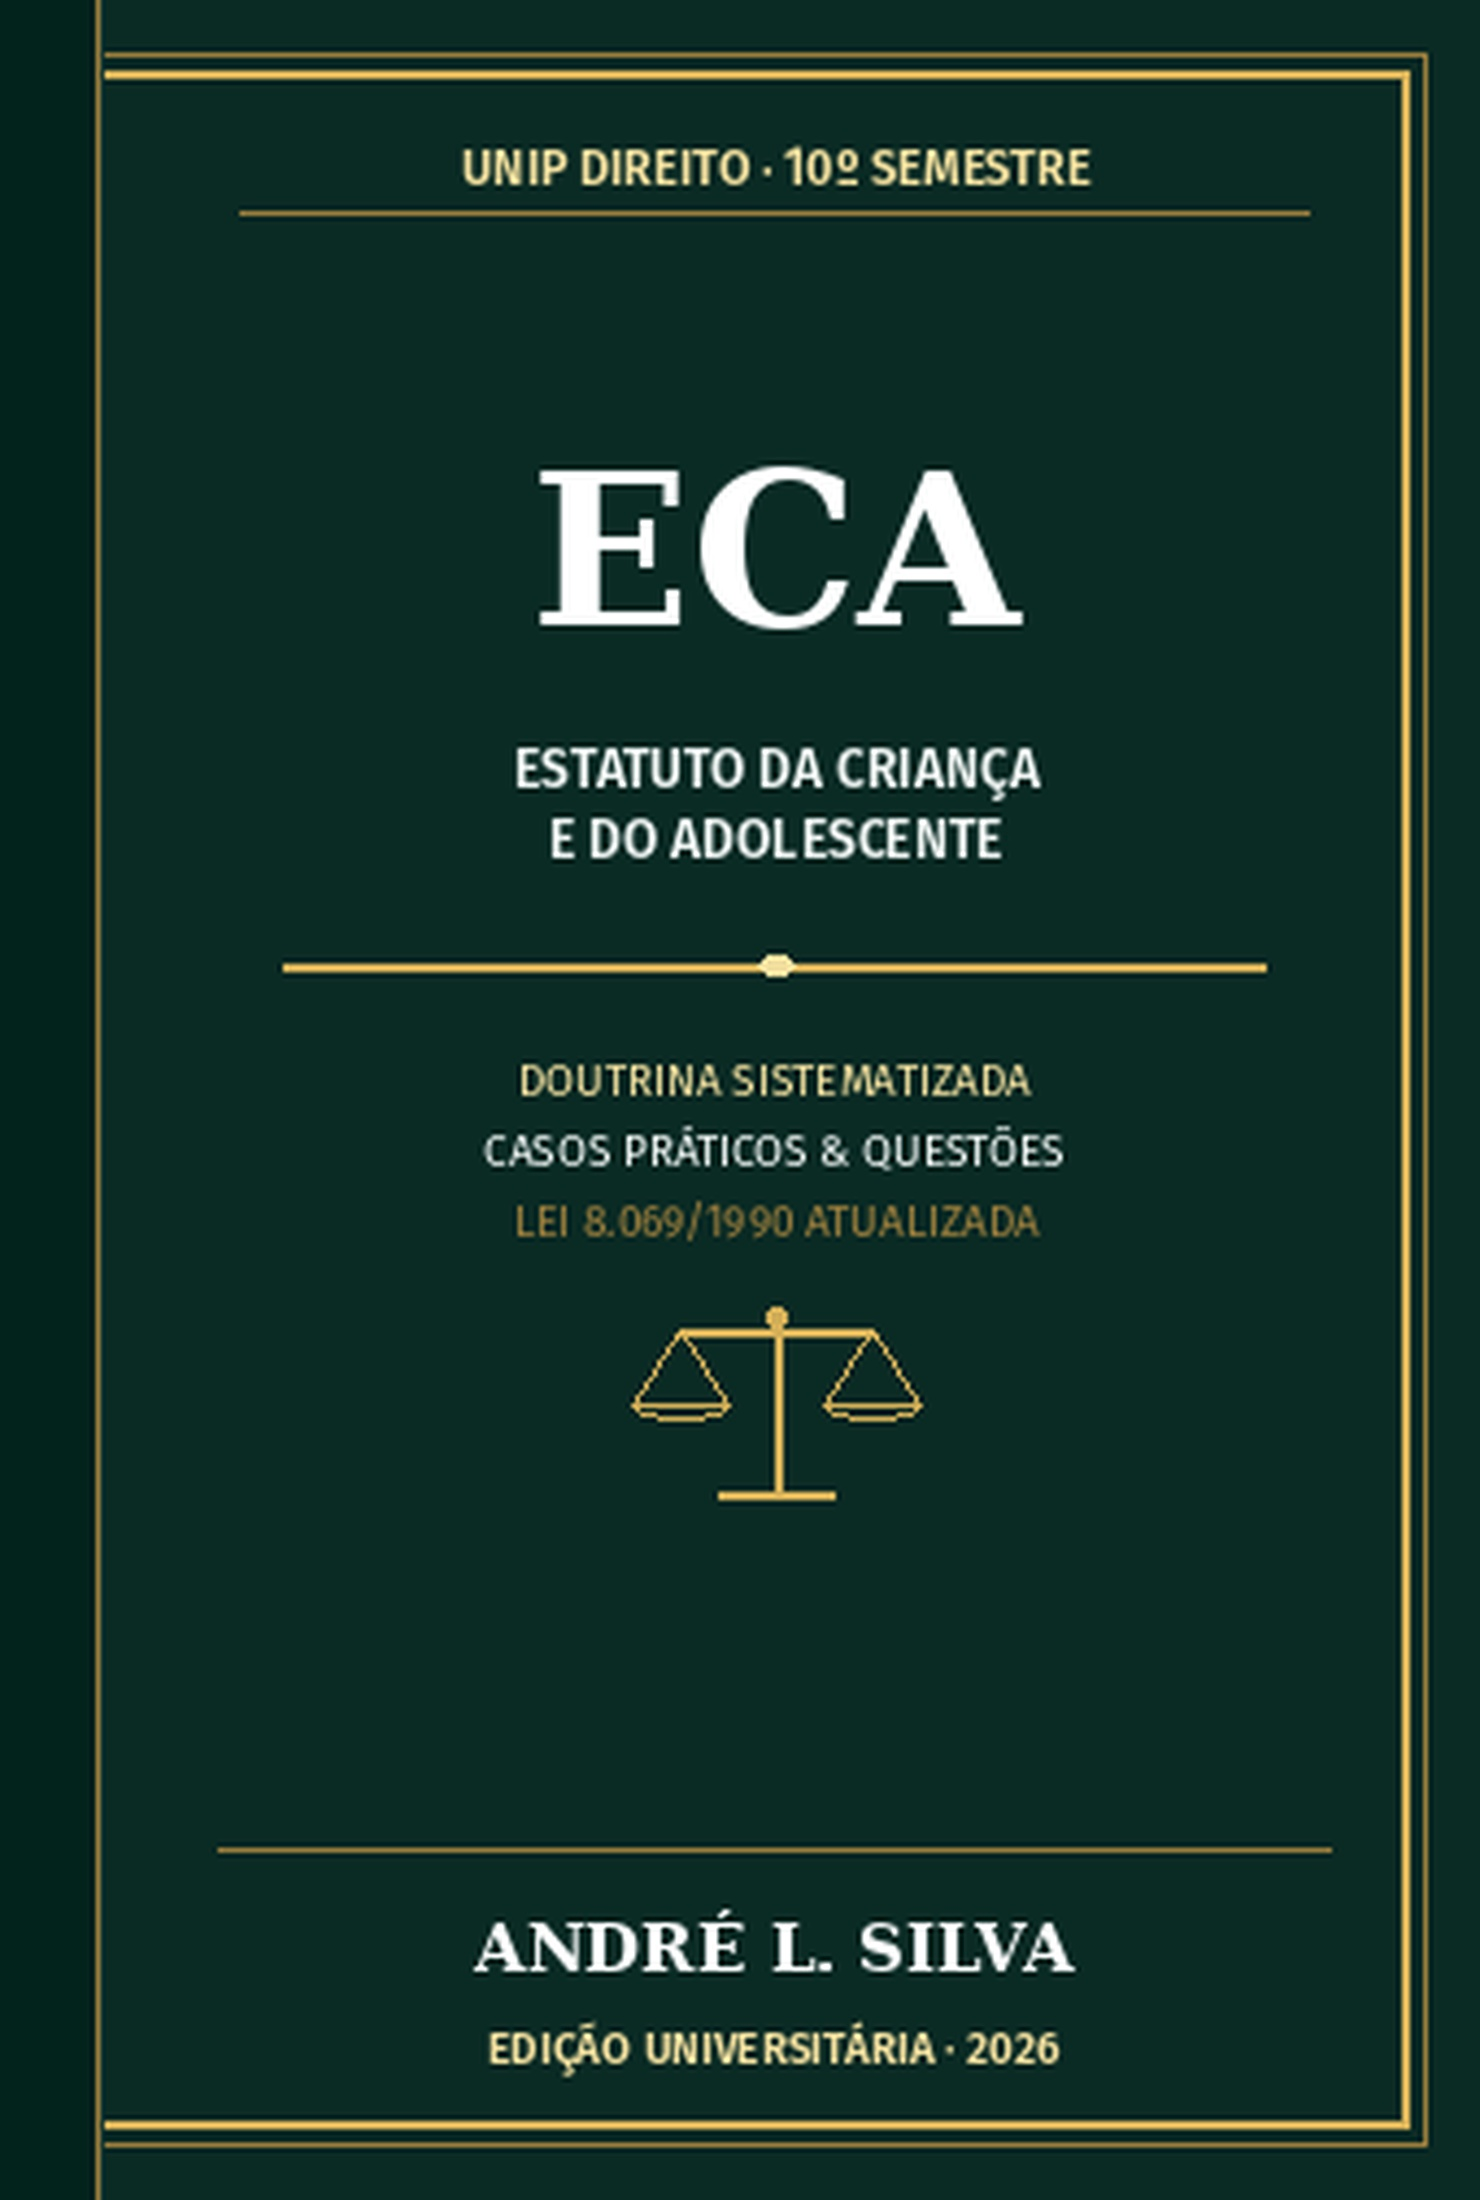
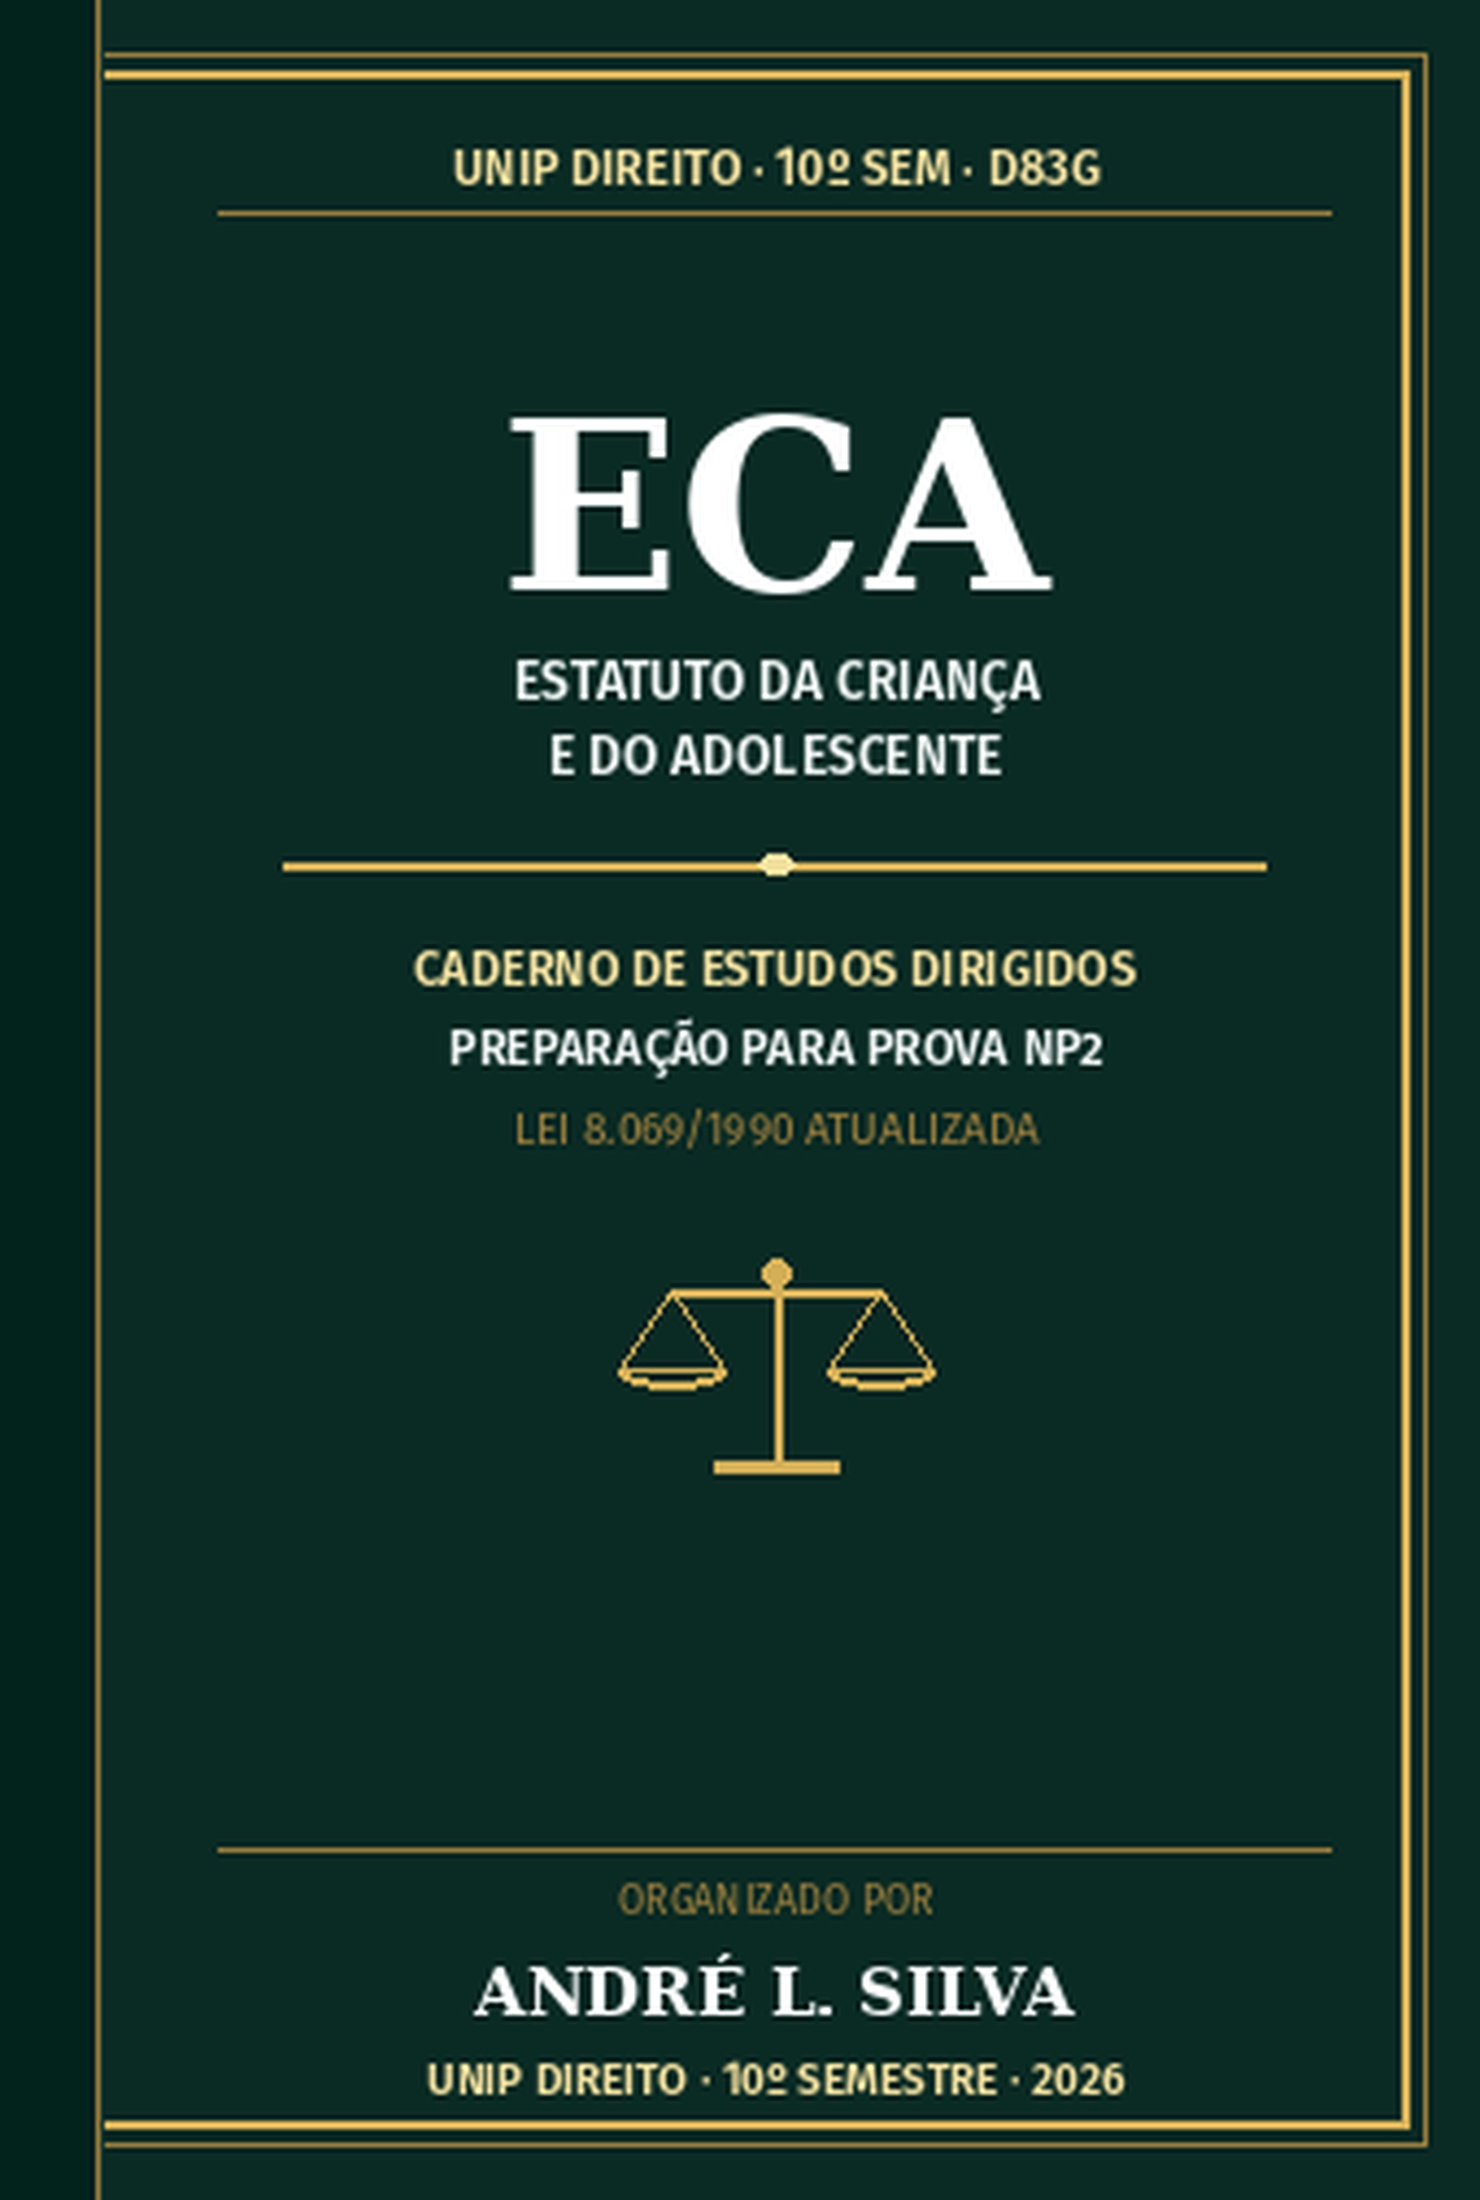
feat: customize editorial cover for NP2 study notebook by André L. Silva (D83G)

diff --git a/eca-d83g-u1.html b/eca-d83g-u1.html
@@ -3,10 +3,10 @@
 <head>
 <meta charset="UTF-8">
 <meta name="viewport" content="width=device-width, initial-scale=1, viewport-fit=cover">
-<title>ECA — D83G Unidade I</title>
+<title>ECA — Caderno de Estudos NP2 · UNIP D83G</title>
 <meta property="og:type" content="website">
-<meta property="og:title" content="ECA — Estatuto da Criança e do Adolescente · D83G Unidade I">
-<meta property="og:description" content="Mini-aula técnica de véspera: 10 seções teóricas, 12 exercícios comentados com gabarito e 30 flashcards de revisão. UNIP · Lei 8.069/1990.">
+<meta property="og:title" content="ECA — Caderno de Estudos e Revisão NP2 · UNIP D83G">
+<meta property="og:description" content="Caderno de estudos de André L. Silva para a NP2 de Direito da Criança e do Adolescente (D83G). 12 questões comentadas com gabarito oficial, 56 artigos literais em popover e 32 flashcards.">
 <meta property="og:image" content="https://smtfyweb.github.io/ECA/og-image.png">
 <meta property="og:image:type" content="image/png">
 <meta property="og:image:width" content="1200">
@@ -14,8 +14,8 @@
 <meta property="og:url" content="https://smtfyweb.github.io/ECA/">
 <meta property="og:site_name" content="Guia ECA — UNIP D83G">
 <meta name="twitter:card" content="summary_large_image">
-<meta name="twitter:title" content="ECA — Estatuto da Criança e do Adolescente · D83G Unidade I">
-<meta name="twitter:description" content="Mini-aula técnica de véspera: 10 seções, 12 exercícios, 30 flashcards. UNIP · Lei 8.069/1990.">
+<meta name="twitter:title" content="ECA — Caderno de Estudos e Revisão NP2 · UNIP D83G">
+<meta name="twitter:description" content="Caderno de estudos de André L. Silva para a NP2 de Direito da Criança e do Adolescente (D83G). 12 questões, 56 artigos em popover e 32 flashcards.">
 <meta name="twitter:image" content="https://smtfyweb.github.io/ECA/og-image.png">
 <style>
 :root {
@@ -583,12 +583,12 @@ document.addEventListener('DOMContentLoaded', function(){
 <header class="page-header">
   <div class="header-grid">
     <div class="book-cover-wrap">
-      <img src="capa_livro.jpg" alt="Capa do Livro: ECA — Estatuto da Criança e do Adolescente por André L. Silva" class="book-cover-img">
+      <img src="capa_livro.jpg" alt="Capa: ECA — Caderno de Estudos Dirigidos e Revisão NP2 por André L. Silva" class="book-cover-img">
     </div>
     <div class="header-main">
-      <div class="header-eyebrow">D83G · UNIDADE I · UNIP DIREITO · 10º SEMESTRE · 2026</div>
+      <div class="header-eyebrow">D83G · UNIDADE I · UNIP DIREITO · 10º SEMESTRE · PREPARAÇÃO NP2</div>
       <h1>ECA — Estatuto da Criança e do Adolescente</h1>
-      <p class="header-subtitle">Doutrina Sistematizada, Casos Práticos e Jurisprudência Aplicada (Lei 8.069/1990)</p>
+      <p class="header-subtitle">Caderno de Estudos Dirigidos · Resumo Sistematizado, Questões Oficiais e Jurisprudência (Lei 8.069/1990)</p>
       <hr class="header-rule">
       <div class="bio-row">
         <img class="bio-avatar" src="avatar.jpg" alt="André L. Silva">

diff --git a/index.html b/index.html
@@ -3,10 +3,10 @@
 <head>
 <meta charset="UTF-8">
 <meta name="viewport" content="width=device-width, initial-scale=1, viewport-fit=cover">
-<title>ECA — D83G Unidade I</title>
+<title>ECA — Caderno de Estudos NP2 · UNIP D83G</title>
 <meta property="og:type" content="website">
-<meta property="og:title" content="ECA — Estatuto da Criança e do Adolescente · D83G Unidade I">
-<meta property="og:description" content="Mini-aula técnica de véspera: 10 seções teóricas, 12 exercícios comentados com gabarito e 30 flashcards de revisão. UNIP · Lei 8.069/1990.">
+<meta property="og:title" content="ECA — Caderno de Estudos e Revisão NP2 · UNIP D83G">
+<meta property="og:description" content="Caderno de estudos de André L. Silva para a NP2 de Direito da Criança e do Adolescente (D83G). 12 questões comentadas com gabarito oficial, 56 artigos literais em popover e 32 flashcards.">
 <meta property="og:image" content="https://smtfyweb.github.io/ECA/og-image.png">
 <meta property="og:image:type" content="image/png">
 <meta property="og:image:width" content="1200">
@@ -14,8 +14,8 @@
 <meta property="og:url" content="https://smtfyweb.github.io/ECA/">
 <meta property="og:site_name" content="Guia ECA — UNIP D83G">
 <meta name="twitter:card" content="summary_large_image">
-<meta name="twitter:title" content="ECA — Estatuto da Criança e do Adolescente · D83G Unidade I">
-<meta name="twitter:description" content="Mini-aula técnica de véspera: 10 seções, 12 exercícios, 30 flashcards. UNIP · Lei 8.069/1990.">
+<meta name="twitter:title" content="ECA — Caderno de Estudos e Revisão NP2 · UNIP D83G">
+<meta name="twitter:description" content="Caderno de estudos de André L. Silva para a NP2 de Direito da Criança e do Adolescente (D83G). 12 questões, 56 artigos em popover e 32 flashcards.">
 <meta name="twitter:image" content="https://smtfyweb.github.io/ECA/og-image.png">
 <style>
 :root {
@@ -583,12 +583,12 @@ document.addEventListener('DOMContentLoaded', function(){
 <header class="page-header">
   <div class="header-grid">
     <div class="book-cover-wrap">
-      <img src="capa_livro.jpg" alt="Capa do Livro: ECA — Estatuto da Criança e do Adolescente por André L. Silva" class="book-cover-img">
+      <img src="capa_livro.jpg" alt="Capa: ECA — Caderno de Estudos Dirigidos e Revisão NP2 por André L. Silva" class="book-cover-img">
     </div>
     <div class="header-main">
-      <div class="header-eyebrow">D83G · UNIDADE I · UNIP DIREITO · 10º SEMESTRE · 2026</div>
+      <div class="header-eyebrow">D83G · UNIDADE I · UNIP DIREITO · 10º SEMESTRE · PREPARAÇÃO NP2</div>
       <h1>ECA — Estatuto da Criança e do Adolescente</h1>
-      <p class="header-subtitle">Doutrina Sistematizada, Casos Práticos e Jurisprudência Aplicada (Lei 8.069/1990)</p>
+      <p class="header-subtitle">Caderno de Estudos Dirigidos · Resumo Sistematizado, Questões Oficiais e Jurisprudência (Lei 8.069/1990)</p>
       <hr class="header-rule">
       <div class="bio-row">
         <img class="bio-avatar" src="avatar.jpg" alt="André L. Silva">
